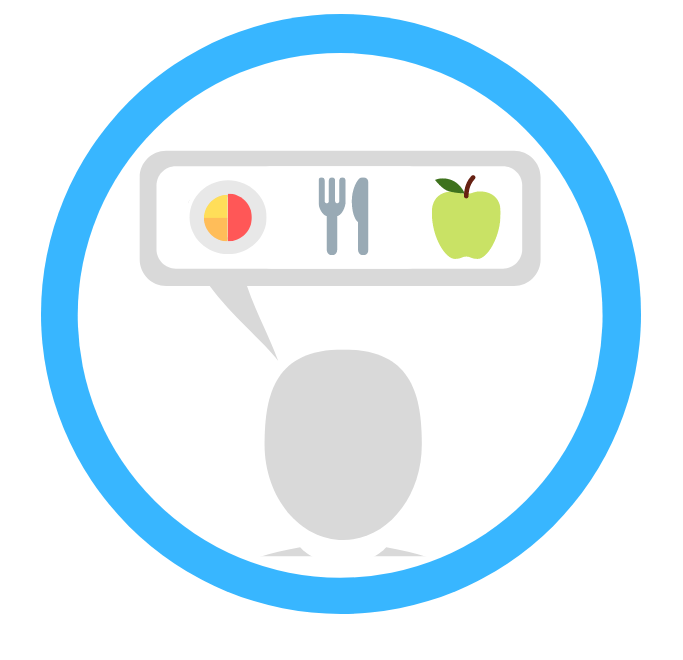
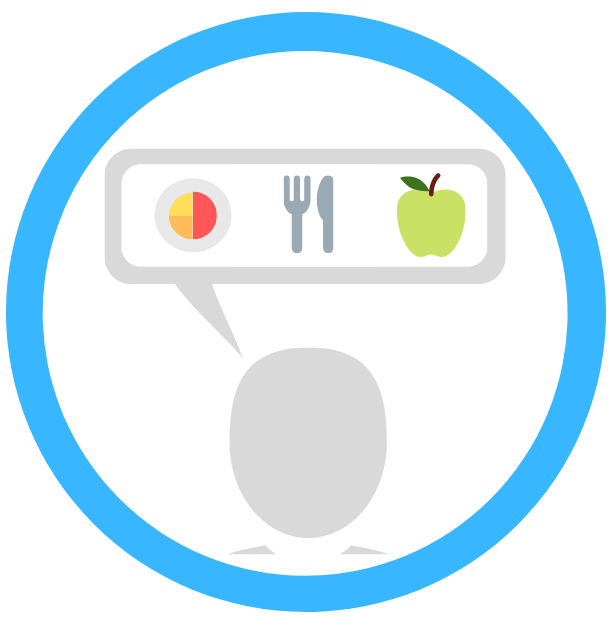
update

diff --git a/nutritionists.html b/nutritionists.html
@@ -16,7 +16,7 @@
 		<!-- Header -->
 			<header id="header">
 				<div class="inner">
-					<img src="images/favicon2.png" class="logo" height="64px" width="64px"/>
+					<a href="index.html"><img src="images/favicon2.png" class="logo" height="64px" width="64px"/></a>
 					<nav id="nav">
 						<a href="index.html">Home</a>
                     	<a href="nutritionists.html">Nutritionists</a>
@@ -30,7 +30,7 @@
 		<!-- bannernut -->
 			<section id="banner">
 				<div class="nut">
-					<img src="images/favicon2.png" class="logo" height="128px" width="128px"/>
+					<a href="index.html"><img src="images/iconn.png" class="logo" height="180px" width="180px"/></a>
 					<header>
 						<h1>Nutritionists</h1>
 					</header>

diff --git a/personal_trainers.html b/personal_trainers.html
@@ -16,7 +16,7 @@
 		<!-- Header -->
 			<header id="header">
 				<div class="inner">
-					<img src="images/favicon2.png" class="logo" height="64px" width="64px"/>
+					<a href="index.html"><img src="images/favicon2.png" class="logo" height="64px" width="64px"/></a>
 					<nav id="nav">
 						<a href="index.html">Home</a>
                     	<a href="nutritionists.html">Nutritionists</a>
@@ -30,7 +30,7 @@
 		<!-- bannerpt -->
 		<section id="banner">
 			<div class="pt">
-				<img src="images/favicon2.png" class="logo" height="128px" width="128px"/>
+				<a href="index.html"><img src="images/iconp.png" class="logo" height="180px" width="180px"/></a>
 				<header>
 					<h1>Personal Trainers</h1>
 				</header>

diff --git a/sample.html b/sample.html
@@ -18,7 +18,7 @@
 	<!-- Header -->
 	<header id="header">
 		<div class="inner">
-			<img src="images/favicon2.png" class="logo" height="64px" width="64px" />
+			<a href="index.html"><img src="images/favicon2.png" class="logo" height="64px" width="64px" /></a>
 			<nav id="nav">
 				<a href="index.html">Home</a>
 				<a href="nutritionists.html">Nutritionists</a>
@@ -35,7 +35,7 @@
 			<header>
 				<h1>Name</h1>
 				<h3 class="slogan"><i>profession/degree/whatever you want</i></h3>
-				<img src="images/profs/flavia.jpeg" class="profile" width="200" height="200"
+				<img src="images/profs/favicon.jpeg" class="profile" width="200" height="200"
 					alt="personal trainer" />
 			</header>
 

diff --git a/assets/css/main.css b/assets/css/main.css
@@ -2561,7 +2561,7 @@
 		text-align: center;
 		text-decoration: none;
 		text-transform: uppercase;
-		#FFFFFF-space: nowrap;
+		white-space: nowrap;
 	}
 
 		input[type="submit"]:hover,
@@ -2637,7 +2637,7 @@
 			input[type="button"].alt:hover,
 			button.alt:hover,
 			.button.alt:hover {
-				background-colorrgba(25, 181, 254, 1);
+				background-color:rgba(25, 181, 254, 1);
 			}
 
 			input[type="submit"].alt:active,

diff --git a/index.html b/index.html
@@ -16,7 +16,7 @@
 		<!-- Header -->
 			<header id="header">
 				<div class="inner">
-					<img src="images/favicon2.png" class="logo" height="64px" width="64px"/>
+					<a htrf=index.html><img src="images/favicon2.png" class="logo" height="64px" width="64px"/></a>
 					<nav id="nav">
 						<a href="index.html">Home</a>
                     	<a href="nutritionists.html">Nutritionists</a>

diff --git a/flavia.html b/flavia.html
@@ -18,7 +18,7 @@
 	<!-- Header -->
 	<header id="header">
 		<div class="inner">
-			<img src="images/favicon2.png" class="logo" height="64px" width="64px" />
+			<a href="index.html"><img src="images/favicon2.png" class="logo" height="64px" width="64px" /></a>
 			<nav id="nav">
 				<a href="index.html">Home</a>
 				<a href="nutritionists.html">Nutritionists</a>

diff --git a/login.html b/login.html
@@ -8,7 +8,7 @@
 <!-- Header -->
 <header id="header">
 	<div class="inner">
-		<img src="images/favicon2.png" class="logo" height="64px" width="64px"/>
+		<a href="index.html"><img src="images/favicon2.png" class="logo" height="64px" width="64px"/></a>
 		<nav id="nav">
 			<a href="index.html">Home</a>
 			<a href="nutritionists.html">Nutritionists</a>
